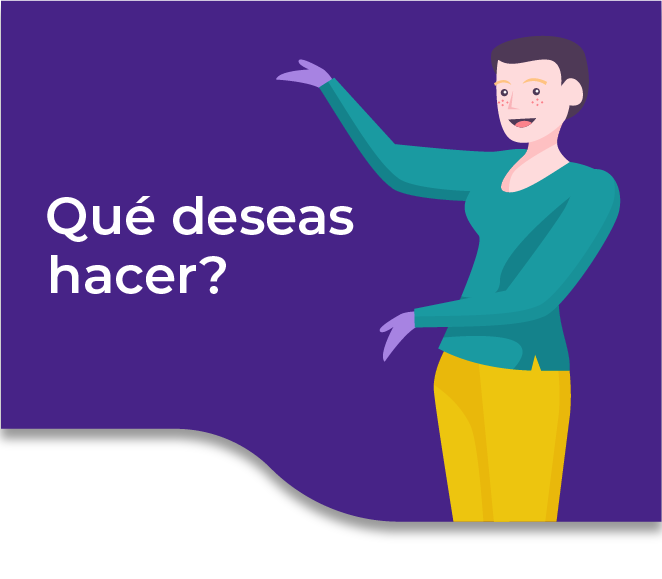
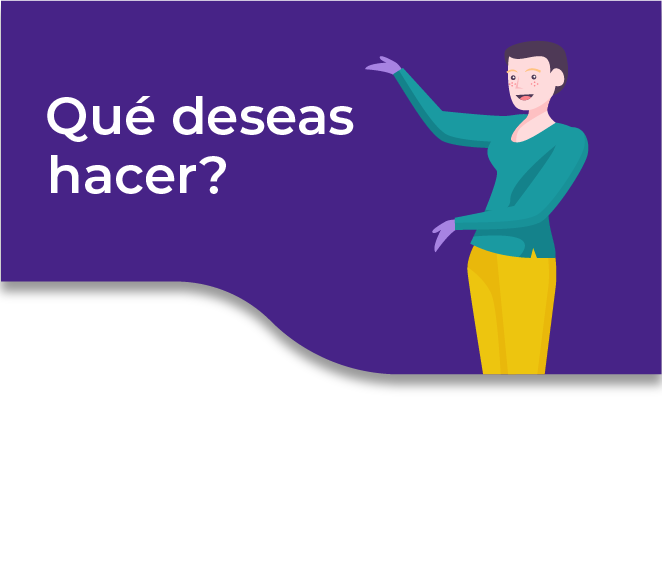
adding styles for rappis list

diff --git a/screens/publicacionesrappi/List.js b/screens/publicacionesrappi/List.js
@@ -47,17 +47,26 @@ useEffect(() => {
     listar();
 },[])
 
+/* var NAMENAME = ''
+var IDID = ''
+
+function storeNameId(name, id){
+    NAMENAME = name;
+    IDID = id;
+} */
+
 return(
     <View style={styles.container}>
-            <View style={{textAlign: 'center'}}>
+            <View style={styles.AllBoxes}>
                 {lista.map(item => (
-                     <View key={item.id} >
-                    <Text>{item.name}</Text>
-                    <Text>{item.monto}</Text>
-                    <Text>{item.description}</Text>
+                     <View key={item.id} style={styles.Boxes}>
+                    <Text style={styles.Dreamer}>Dreamer</Text>
+                    <Text style={styles.ItemName}>{item.name}</Text>
+                    <Text style={styles.ItemMonto}>Cantidad solicitada: {item.monto}</Text>
+                    <Text style={styles.ItemDescription}>{item.description}</Text>
                     <Text></Text>
-                    <YellowButton title='Apadrinar' onPress={() => navigation.navigate('Transferencia')}></YellowButton>
-                    </View>  
+                    <YellowButton title='Apadrinar' onPress={() => {/* storeNameId(this.item.name, this.item.id); */ navigation.navigate('Transferencia');}}></YellowButton>
+                    </View>
                 ))}
             </View>
     </View>
@@ -65,3 +74,4 @@ return(
 }
 
 export default List
+

diff --git a/screens/menuapadrinapp/styles.js b/screens/menuapadrinapp/styles.js
@@ -3,7 +3,7 @@ import Color from '../../source/utils/Colors';
 import { Dimensions } from 'react-native';
 
 const win = Dimensions.get('window');
-const ratio = win.width/541;
+const ratio = win.width/550;
 const styles = StyleSheet.create({
 
   container : {
@@ -17,7 +17,6 @@ const styles = StyleSheet.create({
   header : {
     flex : 1,
     paddingTop: 22,
-    backgroundColor: Color.lightpurple
   },
   headerLeft : {
     flex : 1,
@@ -30,23 +29,19 @@ const styles = StyleSheet.create({
   },
   headerMiddle : {
     flex: 1,
-    alignItems: 'center',
-    justifyContent: 'flex-start',
   },
   headerRight : {
-    flex : 1,
-    marginTop: -40,
+    flex: 1,
   },
   body : {
-    flex : 3,
+    flex : 1,
     alignItems : 'center',
     justifyContent : 'center',
     backgroundColor: Color.grey,
   },
   logo : {
     width: win.width,
-    height: 480* ratio,
-    resizeMode: 'contain',
+    height: 450 * ratio,
     justifyContent: 'center',
   },
   footer: {
@@ -60,7 +55,8 @@ const styles = StyleSheet.create({
     fontSize: 38,
     color: Color.purple,
     flexDirection: 'row',
-    margin: 10,
+    paddingLeft: 10,
+    marginTop: 12
   },
   estadoCuenta: {
     width: 120,

diff --git a/screens/publicacionesrappi/styles.js b/screens/publicacionesrappi/styles.js
@@ -17,7 +17,7 @@ const styles = StyleSheet.create({
   header : {
     flex : 1,
     paddingTop: 22,
-    backgroundColor: Color.purple
+    backgroundColor: Color.lightpurple
   },
   headerLeft : {
     flex : 1,
@@ -53,6 +53,7 @@ const styles = StyleSheet.create({
   },
   ElevatePic: {
     elevation: 2,
+    marginBottom: -10
   },
   InfoCube: {
     flexDirection : 'row',
@@ -88,6 +89,37 @@ const styles = StyleSheet.create({
     fontSize: 17,
     fontWeight: "bold",
     color: Color.yellow,
+  },
+  AllBoxes: {
+    backgroundColor: Color.lightpurple
+  },
+  Boxes: {
+    padding: 30,
+    backgroundColor: Color.purple,
+    width: win.width/1.05,
+    margin: 5,
+    borderColor: Color.lightpurple,
+    borderRadius: 20
+  },
+  Dreamer: {
+    color: Color.yellow,
+    fontSize: 20,
+    fontWeight: "bold"
+  },
+  ItemName: {
+    fontSize: 30,
+    color: Color.white,
+    fontWeight: "bold"
+  },
+  ItemMonto: {
+    fontSize: 18,
+    color: Color.grey,
+    fontWeight: "bold"
+  },
+  ItemDescription: {
+    color: Color.grey,
+    fontSize: 24,
+    marginTop: 10
   }
 })
 

diff --git a/screens/transferencia/Transferencia.js b/screens/transferencia/Transferencia.js
@@ -6,6 +6,7 @@ import YellowButton from '../../source/Components/YellowButton';
 import HollowInput from '../../source/Components/HollowInputSpace';
 import PrevScreenButton from '../../source/Components/PrevScreenButton';
 import NameLogin from '../NameLogin/NameLogin';
+import BackButton from '../../source/Components/BackButton'
 
 const Transferencia = ({ navigation }) => {
   const [monto, setMonto] = useState('')
@@ -14,7 +15,7 @@ const Transferencia = ({ navigation }) => {
       <ScrollView stickyHeaderIndices={[0]} showsVerticalScrollIndicator={false}>
         <View style={styles.header}>
           <View style={styles.headerLeft}>
-            <PrevScreenButton onPress={() => navigation.navigate('PublicacionesRappi')}></PrevScreenButton>
+            <PrevScreenButton onPress={() => navigation.navigate('MenuApadrinapp')}></PrevScreenButton>
             <Text style={styles.PageTitle}>Apadrinar</Text>
             <NameLogin></NameLogin>
           </View>

diff --git a/source/Components/BackButton.js b/source/Components/BackButton.js
@@ -1,0 +1,25 @@
+function ScreenWithCustomBackBehavior() {
+    // ...
+  
+    useFocusEffect(
+      React.useCallback(() => {
+        const onBackPress = () => {
+          if (isSelectionModeEnabled()) {
+            disableSelectionMode();
+            return true;
+          } else {
+            return false;
+          }
+        };
+  
+        BackHandler.addEventListener('hardwareBackPress', onBackPress);
+  
+        return () =>
+          BackHandler.removeEventListener('hardwareBackPress', onBackPress);
+      }, [isSelectionModeEnabled, disableSelectionMode])
+    );
+  
+    // ...
+  }
+
+  export default ScreenWithCustomBackBehavior

diff --git a/screens/menuapadrinapp/MenuApadrinapp.js b/screens/menuapadrinapp/MenuApadrinapp.js
@@ -25,7 +25,7 @@ const MenuApadrinapp = ({ navigation }) => {
           <Image source={require('../../assets/Cabeceras/queDeseas.png')} style={styles.logo}></Image>
         </View>
         </View>
-      <View>
+      <View style={styles.Categorias}>
         <Text style={styles.HeaderText}>Categorias</Text>
       </View>
       <View style={styles.body}>

diff --git a/source/Components/YellowButton.js b/source/Components/YellowButton.js
@@ -16,7 +16,8 @@ const YellowButton = (props) => {
 const styles = StyleSheet.create({
     button: {
         display: 'flex',
-        minWidth: 135,
+        minWidth: 70,
+        maxWidth: 135,
         height: 30,
         paddingVertical: 2,
         paddingHorizontal: 10,
